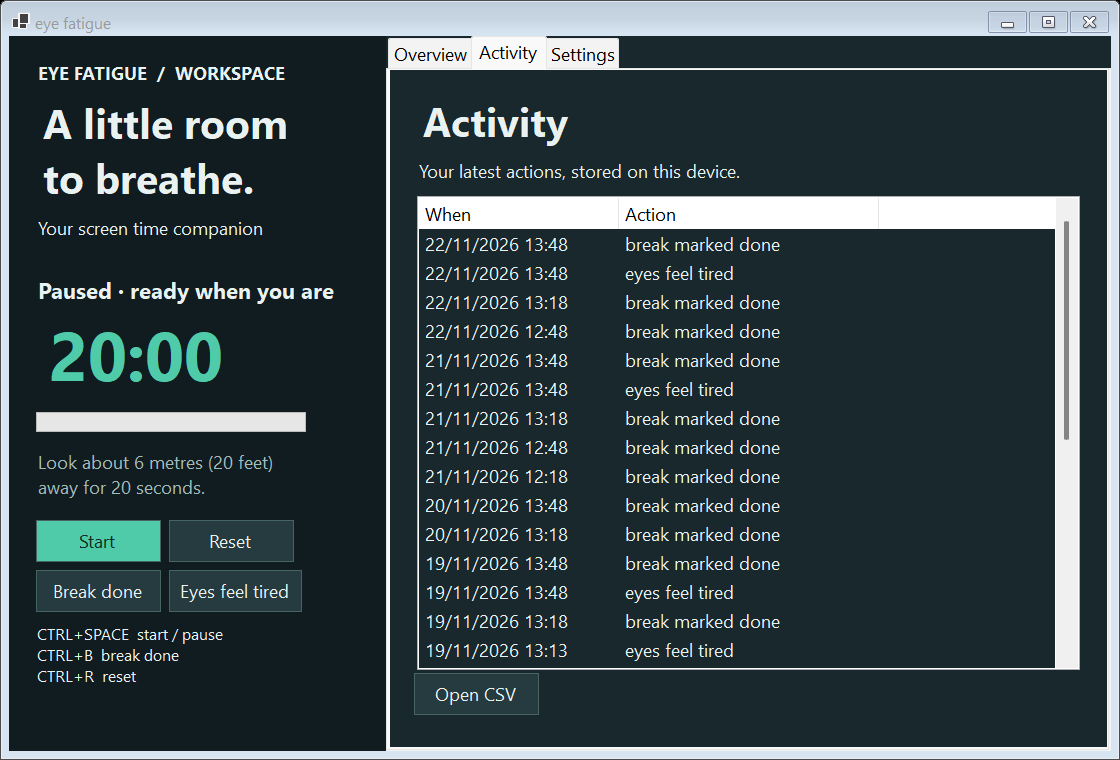
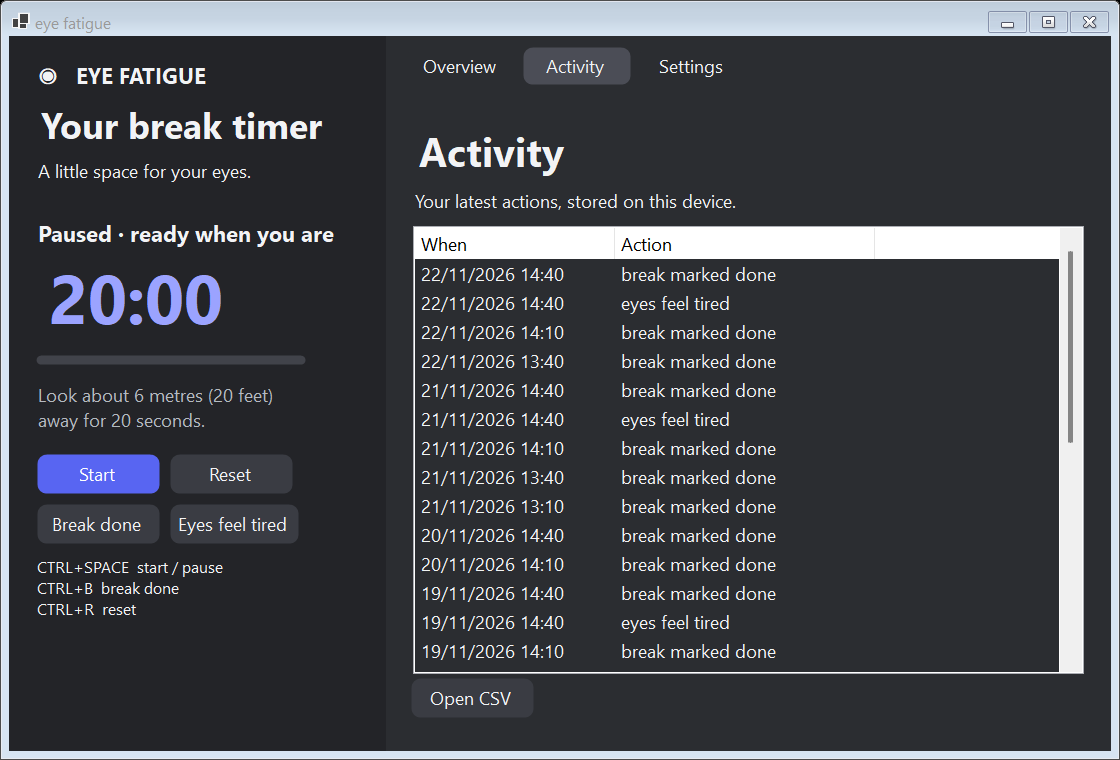
style: give the workspace a softer look

diff --git a/app/MainForm.cs b/app/MainForm.cs
@@ -1,4 +1,4 @@
-using System.Diagnostics;
+using System.Diagnostics;
 
 namespace EyeFatigue;
 
@@ -11,10 +11,14 @@ internal sealed class MainForm : Form
     readonly System.Windows.Forms.Timer timer = new() { Interval = 500 };
     readonly NotifyIcon tray = new() { Icon = SystemIcons.Information, Text = "Eye fatigue reminders", Visible = true };
     readonly SplitContainer split = new() { Size = new Size(1000, 700), Dock = DockStyle.Fill, SplitterWidth = 7, Panel1MinSize = 280, Panel2MinSize = 400 };
-    readonly TabControl tabs = new() { Dock = DockStyle.Fill };
+    readonly Panel pages = new() { Dock = DockStyle.Fill };
+    readonly FlowLayoutPanel navigation = new() { Dock = DockStyle.Top, Height = 64, Padding = new Padding(20, 10, 0, 0), WrapContents = false };
+    readonly List<Panel> pageList = [];
+    readonly List<SoftButton> navButtons = [];
+    int selectedPage;
     readonly Label status = new(), time = new(), detail = new(), notice = new(), stats = new(), latest = new(), breakLegend = Label("■  Breaks marked done", 10, true), tiredLegend = Label("■  Eyes felt tired", 10, true);
-    readonly ProgressBar progress = new() { Minimum = 0, Maximum = 1000, Height = 20, Dock = DockStyle.Top, AccessibleName = "Time until your next break" };
-    readonly Button toggle = new(), reset = new(), tired = new(), done = new(), history = new();
+    readonly SoftProgress progress = new();
+    readonly SoftButton toggle = new(), reset = new(), tired = new(), done = new(), history = new();
     readonly NumericUpDown interval = new() { Minimum = 5, Maximum = 120, Width = 90 };
     readonly CheckBox dark = new() { Text = "Dark theme", AutoSize = true }, notifications = new() { Text = "Windows notifications", AutoSize = true };
     readonly ActivityGraph graph = new() { Dock = DockStyle.Fill };
@@ -61,8 +65,8 @@ internal sealed class MainForm : Form
     void BuildTimer()
     {
         var stack = Stack(); split.Panel1.Controls.Add(stack);
-        stack.Controls.Add(Label("EYE FATIGUE  /  WORKSPACE", 10, true)); stack.Controls.Add(Label("A little room\nto breathe.", 23, true));
-        stack.Controls.Add(Label("Your screen time companion", 10));
+        stack.Controls.Add(Label("◉   EYE FATIGUE", 12, true)); stack.Controls.Add(Label("Your break timer", 20, true));
+        stack.Controls.Add(Label("A little space for your eyes.", 10));
         status.AutoSize = true; status.Font = new Font("Segoe UI", 12, FontStyle.Bold); status.Margin = new Padding(0, 25, 0, 3); stack.Controls.Add(status);
         time.AutoSize = true; time.Font = new Font("Segoe UI", 38, FontStyle.Bold); time.Margin = new Padding(0, 0, 0, 10); stack.Controls.Add(time);
         progress.Width = 270; progress.Dock = DockStyle.None; stack.Controls.Add(progress);
@@ -74,11 +78,15 @@ internal sealed class MainForm : Form
     }
     void BuildTabs()
     {
-        split.Panel2.Controls.Add(tabs);
-        var overview = new TabPage("Overview"); var activity = new TabPage("Activity"); var preferences = new TabPage("Settings"); tabs.TabPages.AddRange([overview, activity, preferences]);
+        split.Panel2.Controls.Add(pages); split.Panel2.Controls.Add(navigation);
+        var overview = new Panel { Dock = DockStyle.Fill }; var activity = new Panel { Dock = DockStyle.Fill }; var preferences = new Panel { Dock = DockStyle.Fill };
+        pageList.AddRange([overview, activity, preferences]);
+        foreach (var page in pageList) pages.Controls.Add(page);
+        foreach (var title in new[] { "Overview", "Activity", "Settings" }) { var nav = new SoftButton { Text = title, Width = 110, Height = 40, Margin = new Padding(0, 0, 6, 0), AccessibleName = title }; int index = navButtons.Count; nav.Click += (_, _) => SelectPage(index); navButtons.Add(nav); navigation.Controls.Add(nav); }
+        SelectPage(0);
         var grid = new TableLayoutPanel { Dock = DockStyle.Fill, Padding = new Padding(24), ColumnCount = 1, RowCount = 5 };
         grid.RowStyles.Add(new RowStyle(SizeType.AutoSize)); grid.RowStyles.Add(new RowStyle(SizeType.AutoSize)); grid.RowStyles.Add(new RowStyle(SizeType.Percent, 100)); grid.RowStyles.Add(new RowStyle(SizeType.AutoSize)); grid.RowStyles.Add(new RowStyle(SizeType.AutoSize)); overview.Controls.Add(grid);
-        grid.Controls.Add(Label("Your week at a glance", 22, true)); grid.Controls.Add(Label("A simple record of what you chose to log.", 10)); grid.Controls.Add(graph);
+        grid.Controls.Add(Label("Your week", 22, true)); grid.Controls.Add(Label("Your activity over the last 7 days", 10)); grid.Controls.Add(graph);
         var legend = new FlowLayoutPanel { AutoSize = true, Dock = DockStyle.Fill }; legend.Controls.Add(breakLegend); legend.Controls.Add(tiredLegend); grid.Controls.Add(legend); stats.AutoSize = true; stats.Margin = new Padding(0, 8, 0, 0); grid.Controls.Add(stats);
         var activityGrid = new TableLayoutPanel { Dock = DockStyle.Fill, Padding = new Padding(24), ColumnCount = 1, RowCount = 4 };
         activityGrid.RowStyles.Add(new RowStyle(SizeType.AutoSize)); activityGrid.RowStyles.Add(new RowStyle(SizeType.AutoSize)); activityGrid.RowStyles.Add(new RowStyle(SizeType.Percent, 100)); activityGrid.RowStyles.Add(new RowStyle(SizeType.AutoSize)); activity.Controls.Add(activityGrid);
@@ -93,19 +101,19 @@ internal sealed class MainForm : Form
     }
     void ApplyTheme()
     {
-        bg = settings.Dark ? Color.FromArgb(17, 28, 33) : Color.FromArgb(238, 244, 241); panel = settings.Dark ? Color.FromArgb(24, 40, 45) : Color.White;
-        fg = settings.Dark ? Color.FromArgb(233, 242, 240) : Color.FromArgb(28, 52, 49); muted = settings.Dark ? Color.FromArgb(164, 188, 185) : Color.FromArgb(75, 102, 96); accent = Color.FromArgb(79, 203, 169);
+        bg = settings.Dark ? Color.FromArgb(35, 36, 40) : Color.FromArgb(235, 236, 241); panel = settings.Dark ? Color.FromArgb(43, 45, 49) : Color.White;
+        fg = settings.Dark ? Color.FromArgb(242, 243, 245) : Color.FromArgb(35, 38, 48); muted = settings.Dark ? Color.FromArgb(181, 186, 193) : Color.FromArgb(80, 84, 98); accent = settings.Dark ? Color.FromArgb(155, 163, 255) : Color.FromArgb(79, 86, 170);
         BackColor = bg; ForeColor = fg; ThemeControls(this); split.BackColor = bg; split.Panel1.BackColor = bg; split.Panel2.BackColor = panel;
-        graph.Dark = settings.Dark; graph.BackColor = panel; graph.Invalidate(); breakLegend.ForeColor = accent; tiredLegend.ForeColor = Color.FromArgb(255, 181, 112); time.ForeColor = accent; detail.ForeColor = muted; notice.ForeColor = muted; latest.ForeColor = muted;
-        toggle.BackColor = accent; toggle.ForeColor = Color.FromArgb(13, 45, 39);
+        graph.Dark = settings.Dark; graph.BackColor = panel; graph.Invalidate(); breakLegend.ForeColor = accent; tiredLegend.ForeColor = settings.Dark ? Color.FromArgb(255, 186, 128) : Color.FromArgb(145, 77, 28); time.ForeColor = accent; detail.ForeColor = muted; notice.ForeColor = muted; latest.ForeColor = muted;
+        toggle.BackColor = settings.Dark ? Color.FromArgb(88, 101, 242) : Color.FromArgb(79, 86, 170); toggle.ForeColor = Color.White; progress.Fill = accent; progress.Track = settings.Dark ? Color.FromArgb(65, 67, 74) : Color.FromArgb(220, 222, 231); progress.Invalidate(); RefreshNavigation();
     }
     void ThemeControls(Control c)
     {
         foreach (Control child in c.Controls)
         {
             child.ForeColor = fg;
-            if (child is TabPage || child is TableLayoutPanel || child is FlowLayoutPanel || child is ListView || child is NumericUpDown || child is ActivityGraph) child.BackColor = panel;
-            if (child is Button b) { b.BackColor = settings.Dark ? Color.FromArgb(38, 59, 63) : Color.FromArgb(229, 239, 235); b.ForeColor = fg; b.FlatAppearance.BorderColor = settings.Dark ? Color.FromArgb(70, 100, 98) : Color.FromArgb(180, 200, 194); }
+            if (child is Panel || child is TableLayoutPanel || child is FlowLayoutPanel || child is ListView || child is NumericUpDown || child is ActivityGraph) child.BackColor = panel;
+            if (child is Button b) { b.BackColor = settings.Dark ? Color.FromArgb(58, 60, 67) : Color.FromArgb(231, 232, 239); b.ForeColor = fg; b.FlatAppearance.BorderColor = settings.Dark ? Color.FromArgb(70, 100, 98) : Color.FromArgb(180, 200, 194); }
             ThemeControls(child);
         }
         split.Panel1.BackColor = bg;
@@ -115,7 +123,7 @@ internal sealed class MainForm : Form
     void ResetClock() { clock.Reset(settings.Interval); notified = false; Log("reset"); RefreshView(); }
     void RefreshView()
     {
-        int left = clock.Remaining; time.Text = $"{left / 60:00}:{left % 60:00}"; progress.Value = Math.Clamp((clock.IntervalSeconds - left) * 1000 / clock.IntervalSeconds, 0, 1000);
+        int left = clock.Remaining; time.Text = $"{left / 60:00}:{left % 60:00}"; progress.AccessibleDescription = $"{left / 60} minutes and {left % 60} seconds until your next break"; progress.Value = Math.Clamp((clock.IntervalSeconds - left) * 1000 / clock.IntervalSeconds, 0, 1000);
         status.Text = clock.Due ? "Time to look away" : clock.Running ? "Next break in" : "Paused · ready when you are"; toggle.Text = clock.Running ? "Pause" : "Start";
     }
     void Log(string action) { if (demo) return; if (store.Add(action)) entries.Insert(0, new Activity(DateTimeOffset.Now, action)); notice.Text = store.Error ?? ""; UpdateActivity(); }
@@ -132,10 +140,9 @@ internal sealed class MainForm : Form
     void OnKeyDown(object? sender, KeyEventArgs e)
     {
         if (!e.Control) return;
-        switch (e.KeyCode) { case Keys.D1: tabs.SelectedIndex = 0; break; case Keys.D2: tabs.SelectedIndex = 1; break; case Keys.D3: tabs.SelectedIndex = 2; break; case Keys.Space: Toggle(); break; case Keys.B: done.PerformClick(); break; case Keys.R: ResetClock(); break; default: return; }
+        switch (e.KeyCode) { case Keys.D1: SelectPage(0); break; case Keys.D2: SelectPage(1); break; case Keys.D3: SelectPage(2); break; case Keys.Space: Toggle(); break; case Keys.B: done.PerformClick(); break; case Keys.R: ResetClock(); break; default: return; }
         e.Handled = true; e.SuppressKeyPress = true;
     }
-    public void SelectPage(int index) => tabs.SelectedIndex = index;
+    public void SelectPage(int index) { selectedPage = index; for (int i = 0; i < pageList.Count; i++) pageList[i].Visible = i == index; RefreshNavigation(); }
+    void RefreshNavigation() { for (int i = 0; i < navButtons.Count; i++) { navButtons[i].BackColor = i == selectedPage ? (settings.Dark ? Color.FromArgb(75, 77, 86) : Color.FromArgb(222, 224, 235)) : panel; navButtons[i].ForeColor = fg; navButtons[i].Invalidate(); } navigation.BackColor = panel; pages.BackColor = panel; }
 }
-
-

diff --git a/app/SoftControls.cs b/app/SoftControls.cs
@@ -1,0 +1,44 @@
+using System.Drawing.Drawing2D;
+
+namespace EyeFatigue;
+
+internal sealed class SoftButton : Button
+{
+    bool hover;
+    public SoftButton() { SetStyle(ControlStyles.UserPaint | ControlStyles.AllPaintingInWmPaint | ControlStyles.OptimizedDoubleBuffer, true); FlatStyle = FlatStyle.Flat; FlatAppearance.BorderSize = 0; }
+    protected override void OnMouseEnter(EventArgs e) { hover = true; Invalidate(); base.OnMouseEnter(e); }
+    protected override void OnMouseLeave(EventArgs e) { hover = false; Invalidate(); base.OnMouseLeave(e); }
+    protected override void OnPaint(PaintEventArgs e)
+    {
+        e.Graphics.SmoothingMode = SmoothingMode.AntiAlias;
+        var rect = new Rectangle(1, 1, Width - 3, Height - 3);
+        using var path = Rounded(rect, 9);
+        using var fill = new SolidBrush(hover ? ControlPaint.Light(BackColor, .12f) : BackColor);
+        e.Graphics.FillPath(fill, path);
+        TextRenderer.DrawText(e.Graphics, Text, Font, rect, ForeColor, TextFormatFlags.HorizontalCenter | TextFormatFlags.VerticalCenter | TextFormatFlags.EndEllipsis | TextFormatFlags.NoPrefix);
+        if (Focused && ShowFocusCues) { using var pen = new Pen(ForeColor, 2); e.Graphics.DrawPath(pen, path); }
+    }
+    internal static GraphicsPath Rounded(Rectangle r, int radius)
+    {
+        var p = new GraphicsPath(); int d = Math.Min(radius * 2, Math.Min(r.Width, r.Height));
+        p.AddArc(r.Left, r.Top, d, d, 180, 90); p.AddArc(r.Right - d, r.Top, d, d, 270, 90);
+        p.AddArc(r.Right - d, r.Bottom - d, d, d, 0, 90); p.AddArc(r.Left, r.Bottom - d, d, d, 90, 90); p.CloseFigure(); return p;
+    }
+}
+
+internal sealed class SoftProgress : Control
+{
+    int value;
+    [System.ComponentModel.DesignerSerializationVisibility(System.ComponentModel.DesignerSerializationVisibility.Hidden)]
+    public int Value { get => value; set { this.value = Math.Clamp(value, 0, 1000); Invalidate(); } }
+    public Color Track = Color.FromArgb(60, 61, 69);
+    public Color Fill = Color.FromArgb(155, 163, 255);
+    public SoftProgress() { DoubleBuffered = true; Height = 10; AccessibleName = "Time until your next break"; AccessibleRole = AccessibleRole.ProgressBar; }
+    protected override void OnPaint(PaintEventArgs e)
+    {
+        base.OnPaint(e); if (Width < 2 || Height < 2) return; e.Graphics.SmoothingMode = SmoothingMode.AntiAlias;
+        using var track = new SolidBrush(Track); using var fill = new SolidBrush(Fill); using var outline = SoftButton.Rounded(new Rectangle(0, 0, Width - 1, Height - 1), Height / 2);
+        e.Graphics.FillPath(track, outline); int w = (Width - 1) * value / 1000;
+        if (w > 0) { e.Graphics.SetClip(outline); e.Graphics.FillRectangle(fill, 0, 0, w, Height); e.Graphics.ResetClip(); }
+    }
+}

diff --git a/app/ActivityGraph.cs b/app/ActivityGraph.cs
@@ -1,4 +1,4 @@
-using System.Drawing.Drawing2D;
+using System.Drawing.Drawing2D;
 
 namespace EyeFatigue;
 
@@ -15,14 +15,14 @@ internal sealed class ActivityGraph : Control
     protected override void OnPaint(PaintEventArgs e)
     {
         base.OnPaint(e); var g = e.Graphics; g.SmoothingMode = SmoothingMode.AntiAlias;
-        var text = Dark ? Color.FromArgb(210, 224, 226) : Color.FromArgb(35, 58, 58);
-        var grid = Dark ? Color.FromArgb(55, 74, 79) : Color.FromArgb(210, 224, 221);
+        var text = Dark ? Color.FromArgb(181, 186, 193) : Color.FromArgb(80, 84, 98);
+        var grid = Dark ? Color.FromArgb(67, 69, 76) : Color.FromArgb(224, 226, 233);
         var values = Counts(Entries, DateTime.Today); int max = Math.Max(1, values.Max(x => Math.Max(x.Breaks, x.Tired)));
         int left = 38, top = 28, bottom = Height - 46, width = Math.Max(1, Width - left - 18), height = Math.Max(1, bottom - top);
         using var font = new Font("Segoe UI", 9); using var brush = new SolidBrush(text); using var line = new Pen(grid);
         for (int i = 0; i <= 4; i++) { int y = bottom - i * height / 4; g.DrawLine(line, left, y, left + width, y); g.DrawString((max * i / 4.0).ToString("0.#"), font, brush, 0, y - 8); }
         float step = width / 7f; float bar = Math.Min(22, step / 3);
-        using var green = new SolidBrush(Color.FromArgb(79, 203, 169)); using var orange = new SolidBrush(Color.FromArgb(255, 181, 112));
+        using var green = new SolidBrush(Dark ? Color.FromArgb(155, 163, 255) : Color.FromArgb(79, 86, 170)); using var orange = new SolidBrush(Dark ? Color.FromArgb(255, 186, 128) : Color.FromArgb(145, 77, 28));
         for (int i = 0; i < 7; i++)
         {
             float x = left + i * step + step / 2; float h1 = values[i].Breaks * height / (float)max, h2 = values[i].Tired * height / (float)max;
@@ -31,4 +31,3 @@ internal sealed class ActivityGraph : Control
         }
     }
 }
-
